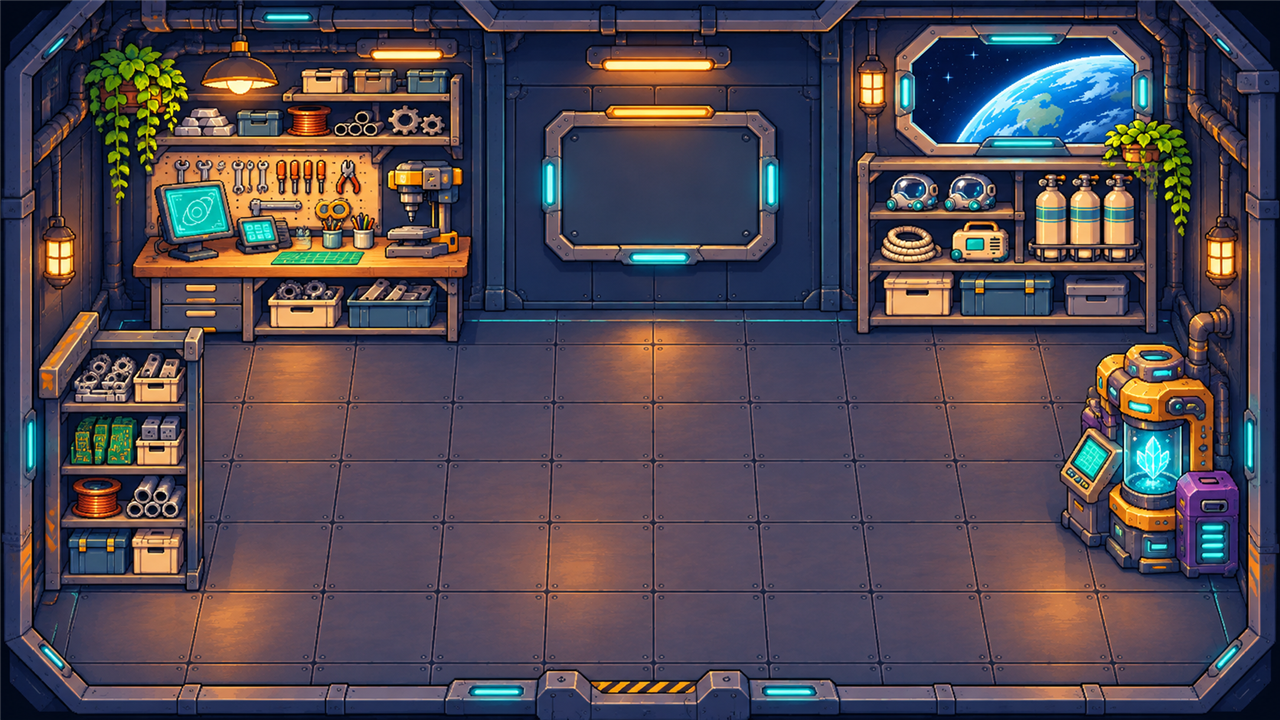
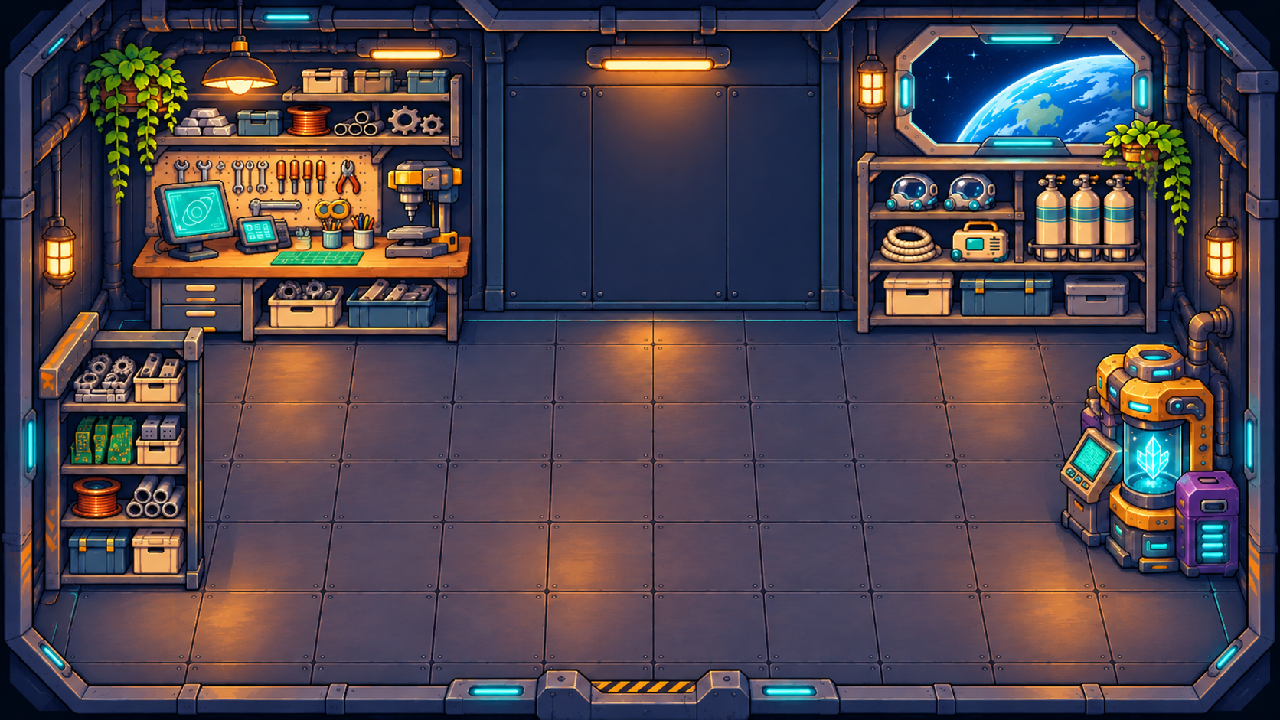
주문 게시판을 공방 중앙 독립형 표지판으로 이동

diff --git a/main.py b/main.py
@@ -17,7 +17,10 @@ from session_results import SessionResults
 from game_state import GameState, RECIPES
 from player import Player
 from ui import CATEGORY_ICON_ASSETS, CREAM, CYAN, GOLD, INK, MUTED, RED, fill_rect, load_grayscale_image
-from workshop import EQUIPMENT, HEIGHT, OBSTACLES, STATIONS, WALKABLE_ROOM, WIDTH, nearest_station
+from workshop import (
+    EQUIPMENT, HEIGHT, OBSTACLES, ORDER_SIGN_POSITION, ORDER_SIGN_SIZE,
+    STATIONS, WALKABLE_ROOM, WIDTH, nearest_station,
+)
 
 
 ASSETS = Path(__file__).resolve().parent / "asset"
@@ -51,6 +54,7 @@ class Game:
         sdl2.SDL_SetHint(b"SDL_RENDER_SCALE_QUALITY", b"0")
         sdl2.SDL_SetRenderDrawBlendMode(p2.renderer, sdl2.SDL_BLENDMODE_BLEND)
         self.background = p2.load_image(str(ASSETS / "bg_workshop_room.png"))
+        self.order_sign = p2.load_image(str(ASSETS / "order_sign.png"))
         self.player_sheet = p2.load_image(str(ASSETS / "player_walk.png"))
         self.panel_image = p2.load_image(str(ASSETS / "ui_order_panel.png"))
         self.button = p2.load_image(str(ASSETS / "ui_button.png"))
@@ -257,7 +261,10 @@ class Game:
         for station in STATIONS:
             selected = station is nearby
             width = len(station.name) * 18 + 28
-            x, y = station.x - width / 2, station.y + 26
+            label_y = station.y + 26
+            if station.name == "주문 게시판":
+                label_y = ORDER_SIGN_POSITION[1] + ORDER_SIGN_SIZE[1] + 4
+            x, y = station.x - width / 2, label_y
             fill_rect(x - 1, y - 1, width + 2, 28, CYAN if selected else (68, 87, 97), 220)
             fill_rect(x, y, width, 26, INK, 235)
             self.text(x + 14, y + 14, station.name, color=CYAN if selected else CREAM)
@@ -333,9 +340,16 @@ class Game:
         if self.state.result is not None:
             self.result_screen.draw()
             return
-        self.draw_station_labels()
         self.draw_shadow()
-        self.player.draw(self.player_sheet)
+        sign_x, sign_y = ORDER_SIGN_POSITION
+        sign_width, sign_height = ORDER_SIGN_SIZE
+        if self.player.y > sign_y:
+            self.player.draw(self.player_sheet)
+            self.order_sign.draw(sign_x, sign_y + sign_height / 2 - 6, sign_width, sign_height)
+        else:
+            self.order_sign.draw(sign_x, sign_y + sign_height / 2 - 6, sign_width, sign_height)
+            self.player.draw(self.player_sheet)
+        self.draw_station_labels()
         fill_rect(18, 665, 282, 39, INK, 225)
         self.text(34, 686, "나만의 우주공방", 22)
         fill_rect(0, 0, WIDTH, 44, INK, 235)

diff --git a/workshop.py b/workshop.py
@@ -8,12 +8,15 @@ from player import Rect
 
 WIDTH, HEIGHT = 1280, 720
 WALKABLE_ROOM = Rect(58, 65, 1220, 400)
+ORDER_SIGN_POSITION = (640, 260)
+ORDER_SIGN_SIZE = (144, 144)
+ORDER_SIGN_BASE = Rect(604, 250, 676, 275)
 
 
 OBSTACLES = (
     Rect(128, 382, 465, 570),
     Rect(45, 130, 208, 420),
-    Rect(530, 420, 750, 605),
+    ORDER_SIGN_BASE,
     Rect(855, 382, 1160, 570),
     Rect(1060, 140, 1228, 420),
     Rect(0, 0, 110, 100),
@@ -78,7 +81,7 @@ STATIONS = (
             "필요 재료를 조합 슬롯에 넣고 제작하세요. 완성품은 자동 회수됩니다.", EQUIPMENT),
     Station("재료 보관대", 255, 230,
             "재료와 보상을 종류별 한 칸에 합쳐 보관하세요.", RESOURCE_ITEMS),
-    Station("주문 게시판", 640, 360,
+    Station("주문 게시판", ORDER_SIGN_POSITION[0], ORDER_SIGN_POSITION[1] - 30,
             "공방을 찾는 손님과 대여 보상을 확인하세요.", CUSTOMERS),
     Station("장비 진열대", 990, 345,
             "장비 종류별 보관함과 캐릭터 가방 사이에서 장비를 옮기세요.", EQUIPMENT),

diff --git a/README.md b/README.md
@@ -240,3 +240,23 @@ circuit subject = A bright green microchip with a solid square centre and four s
 ```text
 Use case: stylized-concept. Asset type: currency icon for a pixel-art space workshop crafting game. Draw ONE gold coin, shown almost front-facing with a slight three-quarter thickness. Bold circular silhouette, warm golden face, bright yellow top-left rim highlight, darker amber stepped rim and a few simple pixel reflections. A single recessed four-point star engraved in the centre suggests space exploration. Crisp chunky pixel-art edges, limited gold palette, strong contrast and simple readable shapes suitable for display at 24x24 or 32x32 pixels. Coin centred and occupying 85 percent of the square canvas. No letters, no numerals, no text, no extra coins, no floating sparkles, no drop shadow, no frame or badge. Genuine transparent background. Production-ready standalone game currency sprite.
 ```
+
+
+### 중앙 주문 표지판
+
+주문 게시판은 중앙 바닥의 독립형 표지판입니다. 가까이에서 E 또는 Enter로 이용합니다.
+받침대만 이동을 막으며, 캐릭터와 표지판의 앞뒤 위치에 따라 그리는 순서를 바꿉니다.
+위치와 크기는 `workshop.py`의 `ORDER_SIGN_POSITION`, `ORDER_SIGN_SIZE`에서 조정합니다.
+
+내장 ImageGen으로 기존 공방 배경을 참조해 생성했습니다.
+`asset/bg_workshop_room.png`는 벽 게시판을 제거한 1280×720 배경이며,
+`asset/order_sign.png`는 투명 배경의 160×160 표지판입니다.
+생성 프롬프트는 다음과 같습니다.
+
+```text
+Background edit prompt
+Precisely edit the supplied 1280x720 pixel-art space workshop background. Remove ONLY the large dark rectangular noticeboard with cyan side lights in the upper central wall, between the left workbench and right equipment rack. Replace that noticeboard and its frame with matching ordinary dark navy metal wall panels, seams, bolts and the existing warm overhead light. Preserve the room geometry, perspective, floor grid, furniture, shelves, spacecraft window, plants, all other objects, lighting and pixel-art style exactly. The floor remains entirely empty. Do not add a new board or sign anywhere. Keep the original full composition and 16:9 framing, ideally the same 1280x720 dimensions. This is a background cleanup so a separate freestanding sign sprite can be placed on the central floor at runtime.
+
+Sign sprite prompt
+Generate a single standalone freestanding order notice sign sprite for the supplied pixel-art space workshop. The supplied room image is a style and perspective reference only. Draw ONLY a small industrial metal noticeboard supported by one sturdy central metal post and a wide stable low base with two short feet. Three-quarter front view matching the room furniture, with the top edge slightly visible. Rectangular board with warm brass metal edging, dark navy display face, a few small pinned cream order cards and tiny teal status lights. No words, letters, numerals, readable text or symbols that resemble writing. The full board, post and feet must be visible. Chunky crisp pixel art, warm amber and cyan lighting, suitable for a 144x144 pixel world prop. Transparent background, no surrounding room, no floor tile, no separate shadow. Square composition, the sign occupies almost the entire height and the feet sit close to the bottom edge with a small transparent margin. One asset only.
+```
